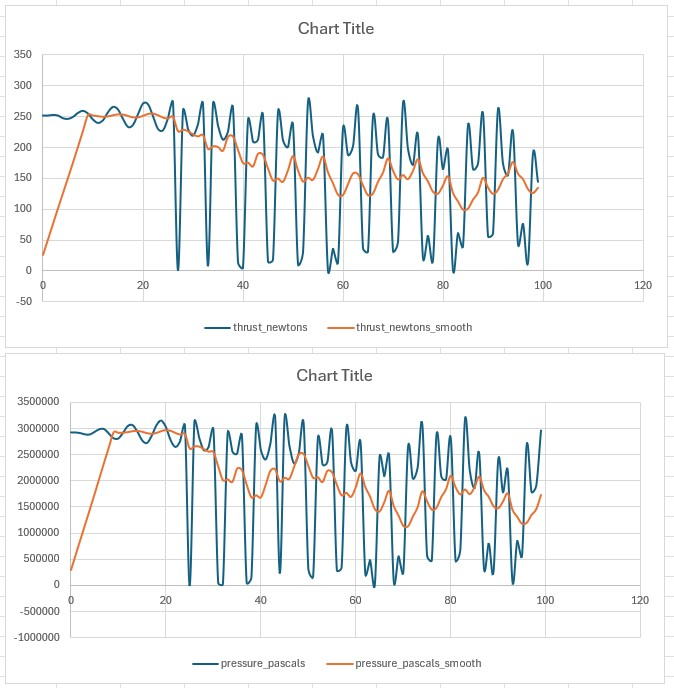
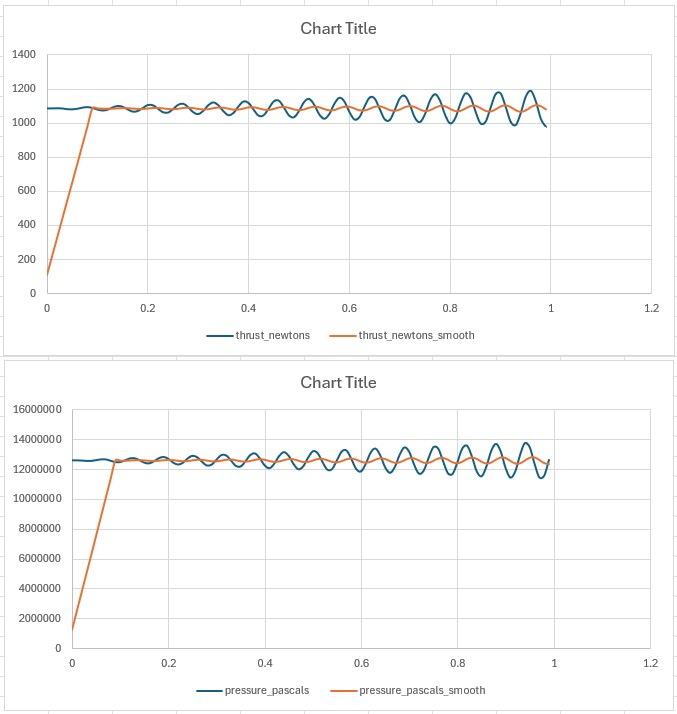
remove timestamp bug

diff --git a/Coding/Motor-Test/Utility-Software/converter.cpp b/Coding/Motor-Test/Utility-Software/converter.cpp
@@ -43,7 +43,7 @@ int main() {
         thrust_newtons_smooth.append(thrust_newtons);
         pressure_pascals_smooth.append(pressure_pascals);
         std::cout
-            << std::to_string(entry.timestamp)
+            << std::to_string((double)entry.timestamp / 1000000.0) // usec to sec
             << "," << std::to_string(entry.thrust)
             << "," << std::to_string(thrust_newtons)
             << "," << std::to_string(thrust_newtons_smooth.curr_avg)
@@ -52,7 +52,7 @@ int main() {
             << "," << std::to_string(pressure_pascals_smooth.curr_avg)
             << "\n";
         data_csv
-            << std::to_string(entry.timestamp)
+            << std::to_string((double)entry.timestamp / 1000000.0)
             << "," << std::to_string(entry.thrust)
             << "," << std::to_string(thrust_newtons)
             << "," << std::to_string(thrust_newtons_smooth.curr_avg)

diff --git a/Coding/Motor-Test/Utility-Software/tester.cpp b/Coding/Motor-Test/Utility-Software/tester.cpp
@@ -11,7 +11,7 @@ int main() {
 
     data_entry entry;
     for (int i = 0; i < 100; i++) {
-        entry.timestamp = i;
+        entry.timestamp = i * 10000;
         entry.thrust = i * sin(i) + 1000;
         entry.pressure = i * cos(i) + 1000;
         data_csv.write(reinterpret_cast<char*>(&entry), sizeof(entry));
